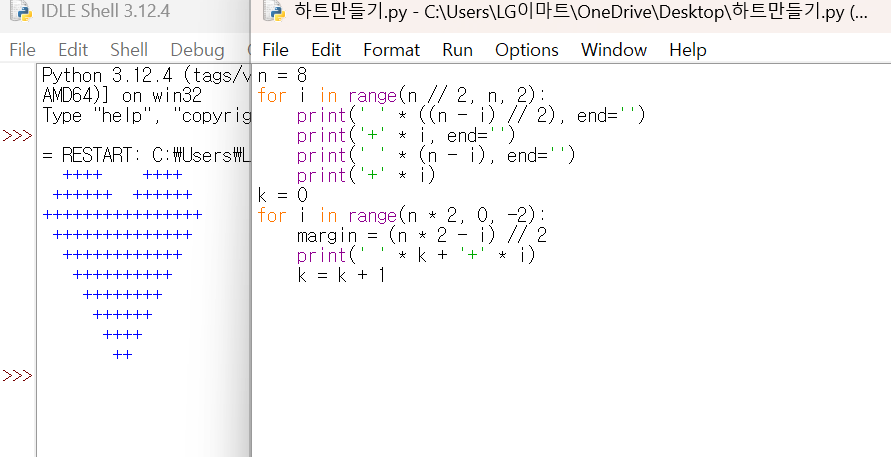
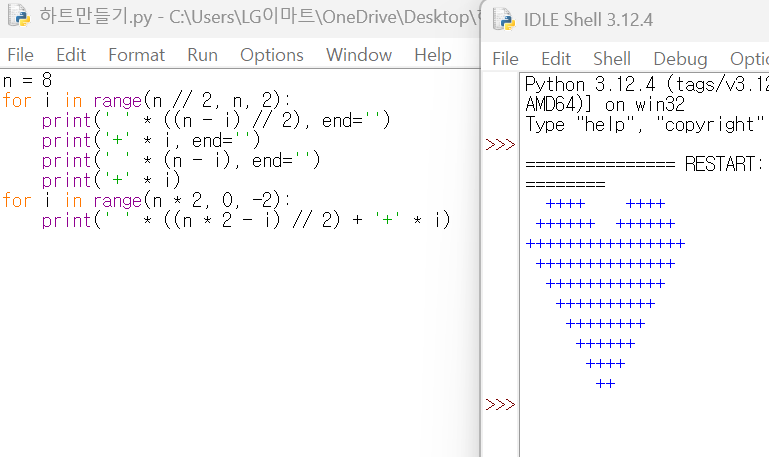
Add files via upload

diff --git a/하트만들기.py b/하트만들기.py
@@ -4,8 +4,5 @@ for i in range(n // 2, n, 2):
     print('+' * i, end='')
     print(' ' * (n - i), end='')
     print('+' * i)
-k = 0
 for i in range(n * 2, 0, -2):
-    margin = (n * 2 - i) // 2
-    print(' ' * k + '+' * i)
-    k = k + 1
+    print(' ' * ((n * 2 - i) // 2) + '+' * i)
